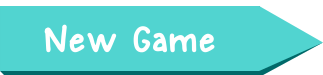
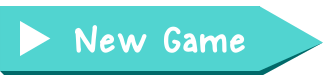
Updated Main Menu styling
- Music and sound buttons added
- Custom buttons for main menu options updated

Changed region(s): [[0.0619, 0.2933, 0.774, 0.7467]]

diff --git a/src/main/resources/css/menu.css b/src/main/resources/css/menu.css
@@ -26,6 +26,7 @@
 
 .newGameButton:pressed{
 	-fx-background-image: url(../images/buttons/newGameButtonDown.png);
+	-fx-cursor: hand;
 }
 
 .statsMenuButton{
@@ -40,6 +41,7 @@
 
 .statsMenuButton:pressed{
 	-fx-background-image: url(../images/buttons/statsMenuButtonDown.png);
+	-fx-cursor: hand;
 }
 
 .quitMenuButton{
@@ -54,6 +56,37 @@
 
 .quitMenuButton:pressed{
 	-fx-background-image: url(../images/buttons/quitMenuButtonDown.png);
+	-fx-cursor: hand;
+}
+
+.badgesMenuButton{
+	-fx-background-color: transparent;
+	-fx-background-image: url(../images/buttons/badgeMenuButtonDefault.png);
+}
+
+.badgesMenuButton:hover{
+	-fx-background-image: url(../images/buttons/badgeMenuButtonHover.png);
+	-fx-cursor: hand;
+}
+
+.badgesMenuButton:pressed{
+	-fx-background-image: url(../images/buttons/badgeMenuButtonDown.png);
+	-fx-cursor: hand;
+}
+
+.graphsMenuButton{
+	-fx-background-color: transparent;
+	-fx-background-image: url(../images/buttons/graphsMenuButtonDefault.png);
+}
+
+.graphsMenuButton:hover{
+	-fx-background-image: url(../images/buttons/graphsMenuButtonHover.png);
+	-fx-cursor: hand;
+}
+
+.graphsMenuButton:pressed{
+	-fx-background-image: url(../images/buttons/graphsMenuButtonDown.png);
+	-fx-cursor:hand;
 }
 
 .profileImageView{
@@ -69,4 +102,88 @@
 	-fx-background-color: #FCEFE8;
 	-fx-background-radius: 10 10 0 0;
 	-fx-background-insets: 0 0 0 10;
+}
+
+.musicOn{
+	-fx-background-color: transparent;
+	-fx-background-image: url(../images/buttons/musicOn.png);
+}
+
+.musicOn:hover{
+	-fx-background-image: url(../images/buttons/musicOnHover.png);
+}
+
+.musicOn:pressed{
+	-fx-background-image: url(../images/buttons/musicOnDown.png);
+}
+
+.musicOff{
+	-fx-background-color: transparent;
+	-fx-background-image: url(../images/buttons/musicOff.png);
+	-fx-pref-width: 82;
+	-fx-pref-height: 50;
+}
+
+.musicOff:hover{
+	-fx-background-image: url(../images/buttons/musicOffHover.png);
+	-fx-pref-width: 82;
+	-fx-pref-height: 50;
+}
+
+.musicOff:pressed{
+	-fx-background-image: url(../images/buttons/musicOffDown.png);
+	-fx-pref-width: 82;
+	-fx-pref-height: 50;
+}
+
+.soundOn{
+	-fx-background-color: transparent;
+	-fx-background-image: url(../images/buttons/soundOn.png);
+}
+
+.soundOn:hover{
+	-fx-background-image: url(../images/buttons/soundOnHover.png);
+}
+
+.soundOn:pressed{
+	-fx-background-image: url(../images/buttons/soundOnDown.png);
+}
+
+.soundOff{
+	-fx-background-color: transparent;
+	-fx-background-image: url(../images/buttons/soundOff.png);
+	-fx-pref-width: 69;
+}
+
+.soundOff:hover{
+	-fx-background-image: url(../images/buttons/soundOffHover.png);
+	-fx-pref-width: 69;
+}
+
+.soundOff:pressed{
+	-fx-background-image: url(../images/buttons/soundOffDown.png);
+	-fx-pref-width: 69;
+}
+
+.slider .thumb{
+	-fx-background-color: #006969;
+	-fx-border-color: #006969;
+	-fx-border-radius: 20;
+	-fx-border-width: 2;
+}
+
+.slider .thumb:hover{
+	-fx-cursor: hand;
+}
+
+.slider .track{
+	-fx-background-color: #FCEFE8;
+	-fx-border-color: #FCEFE8;
+	-fx-border-width: 2;
+}
+
+.scroll-bar .track{
+	-fx-background: transparent;
+	-fx-background-color: transparent;
+	-fx-border-color: transparent;
 }

diff --git a/src/main/java/nz/ac/auckland/se206/MenuController.java b/src/main/java/nz/ac/auckland/se206/MenuController.java
@@ -60,6 +60,9 @@ public class MenuController extends SoundsController {
   @FXML private Button soundButton;
   @FXML private Button musicButton;
   @FXML private Slider musicSlider;
+  
+  private boolean musicOn = true;
+  private boolean soundOn = true;
 
   // This is a task that alternates colours for a label
   private Task<Void> backgroundTask =
@@ -305,6 +308,15 @@ public class MenuController extends SoundsController {
   protected void onSoundToggle(ActionEvent event) {
     // Toggle ALL sound effects
     SoundsController.toggleSoundEffect();
+    if(soundOn) {
+      soundButton.getStyleClass().clear();
+      soundButton.getStyleClass().add("soundOff");
+      soundOn = !soundOn;
+    } else {
+      soundButton.getStyleClass().clear();
+      soundButton.getStyleClass().add("soundOn");
+      soundOn = !soundOn;
+    }
   }
 
   /**
@@ -318,9 +330,13 @@ public class MenuController extends SoundsController {
     if (SoundsController.getMusic()) {
       // Disable the slider
       musicSlider.setDisable(true);
+      musicButton.getStyleClass().clear();
+      musicButton.getStyleClass().add("musicOff");
     } else {
       // Enable the slider
       musicSlider.setDisable(false);
+      musicButton.getStyleClass().clear();
+      musicButton.getStyleClass().add("musicOn");
     }
     // Toggle the background music
     SoundsController.toggleMusic();
